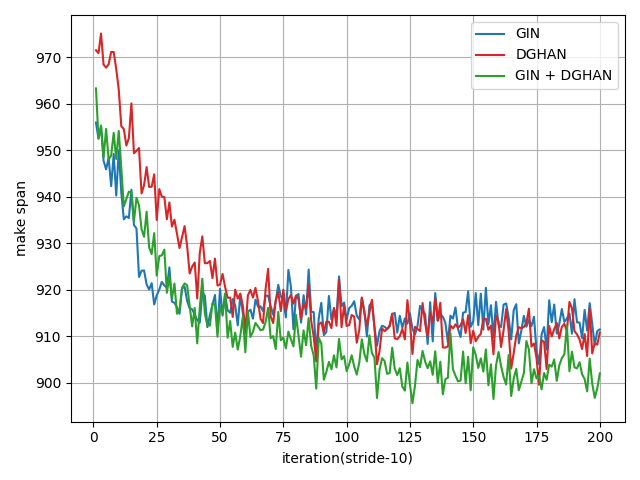
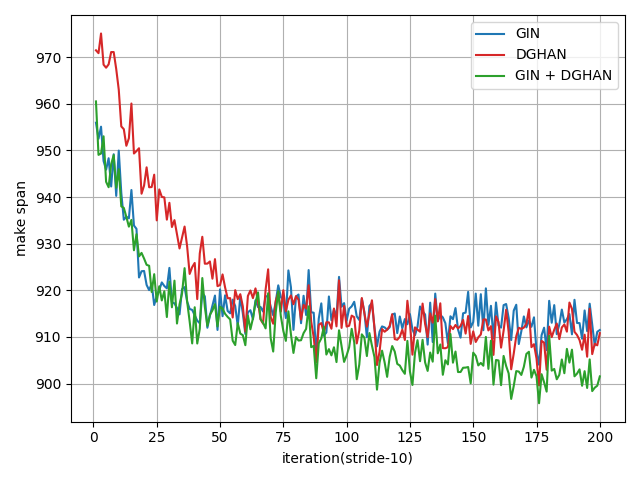
general_update

diff --git a/curves/plot_gin_dghan_gin+dghan.py b/curves/plot_gin_dghan_gin+dghan.py
@@ -33,7 +33,7 @@ step_validation = 10
 # plot parameters
 show = True
 save = True
-log_type = 'training'  # 'training', 'validation'
+log_type = 'validation'  # 'training', 'validation'
 plot_step_size_training = 10
 plot_step_size_validation = 1
 save_file_type = '.png'
@@ -91,7 +91,7 @@ file3 = '{}x{}[{},{}]_{}_{}_{}_' \
             hidden_dim, embedding_layer, policy_layer, embedding_type3, dghan_param_for_saved_model3,
             lr, steps_learn, transit, batch_size, episodes, step_validation)
 
-log3 = np.load('../log/OLD_'
+log3 = np.load('../log/'
                '{}_log_'
                .format(log_type)  # log type
                + file3 + '.npy')
